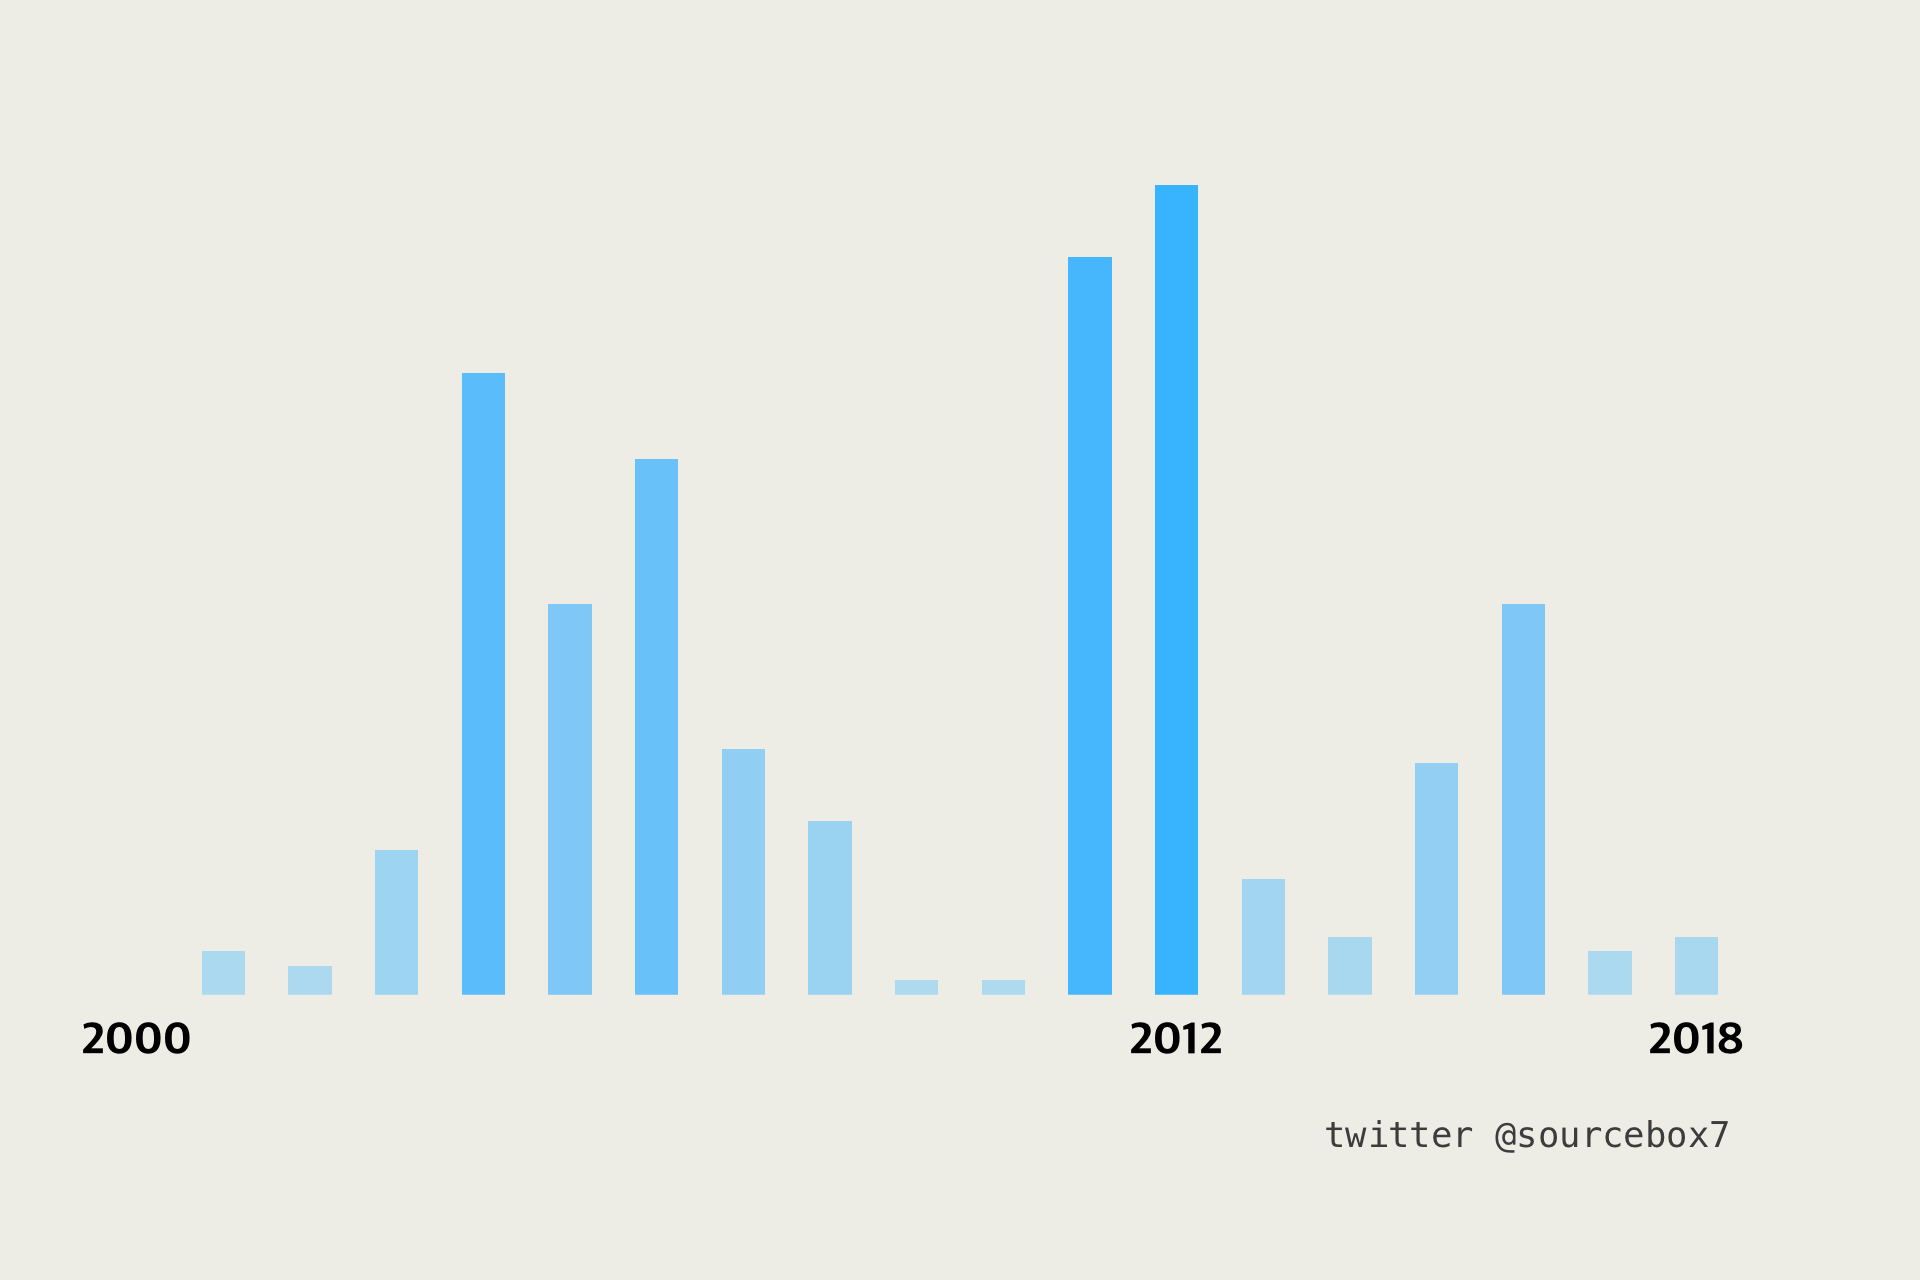
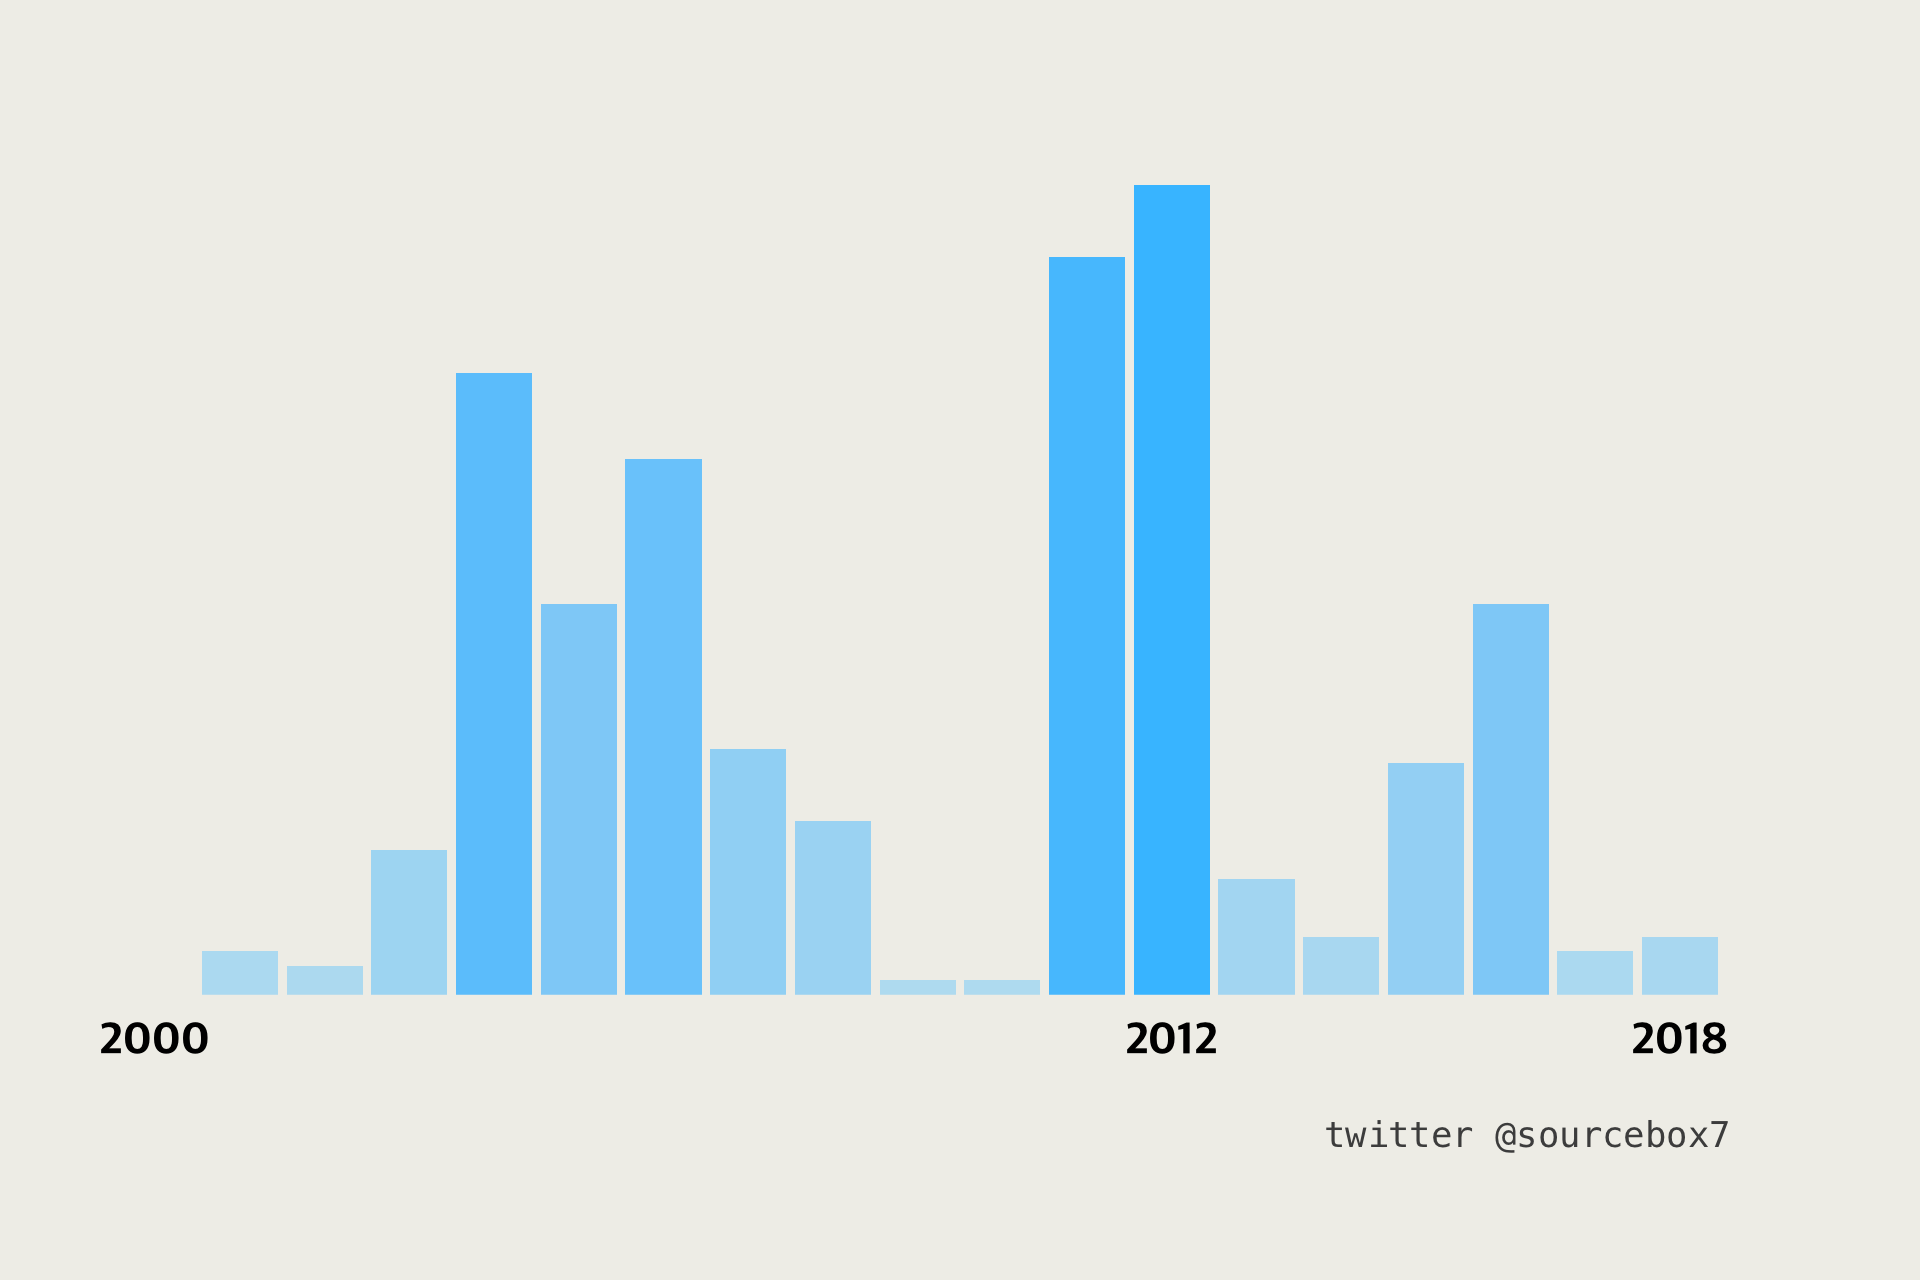
.

Changed region(s): [[0.125, 0.125, 0.9062, 0.8438], [0.0312, 0.7812, 0.125, 0.8438]]

diff --git a/2022/20220719/README.md b/2022/20220719/README.md
@@ -1,3 +1,4 @@
+![](save_ggplot_col_0.png)
 ![](save_ggplot_col_1.png)
 ![](save_ggplot_col_2.png)
 ![](save_ggplot_col_3.png)
